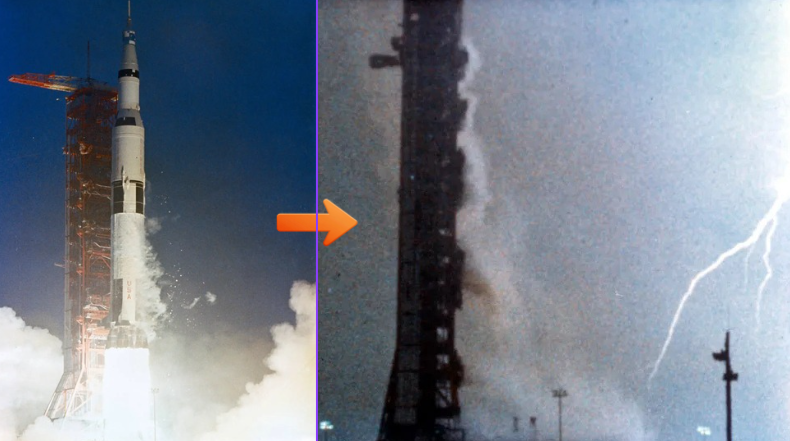
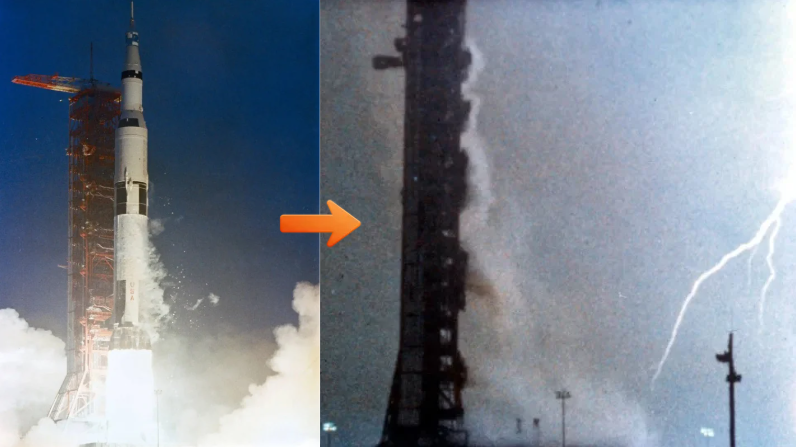
chore(note-story): spec.md 更新と SCEtoAUX サムネ/写真画像を追加
spec.md の制作フロー（画像生成・サムネイル工程）を更新。output/images に
サムネイル（thumnail.png）と写真画像の差し替えを反映。

diff --git a/projects/note-story/spec.md b/projects/note-story/spec.md
@@ -49,18 +49,19 @@
 
 ### 制作フロー
 1. **ネタ選定** — `noteNeta` シートで L列「未使用」のネタから選ぶ（ユーザー指定時も未使用を確認）
-2. **記事フォルダの作成** ー　`YYYY-MM-DD_<短いタイトル>`という名前のフォルダを作成する。作成する記事に関するファイルはこのフォルダの中に格納する。
-3. **関連情報リサーチ** ー research_setup-sources スキルを使い、notebookLM の notebook を作成し、ネタに関連する信頼度の高い情報源をソースとして追加する。スキルが出力する <notebook ID> は保存しておく。以下のステップ 3~5 は、notebook のソースの情報だけをもとに行う。
-4. **参考情報の確認** ー　`reference/articles/` フォルダにある過去の記事例（mhtml）を読み込む
-5. **構成フェーズ** — タイトル案10個とその中の推奨案を1つ・狙い・想定読者・構成案・文字配分を提示し、**ユーザー承認を待つ**（承認前に本文を書かない）。この内容は構成案として保存しておく。
-6. **本文フェーズ** — 承認済み構成を厳守して執筆する。`brand.md`（文体・演出ルール）を遵守
-7. **6000字チェック** — 6000字未満なら不足セクションを加筆し再カウント
-8. **演出セルフチェック** — 導入H2なし／各H2末尾`---`／H3なし／専門語の噛み砕き／各H2に演出装置／`[^N]`形式 を確認
-9. **ファクトチェック** — `/check-fact`（テキスト入力モード、最大5回ループ）。指摘を反映した版を最終本文とする
-10. **画像生成** ー　各H2セクションに１つ図解やイメージ画像などを配置する。そのための図解や画像を生成するプロンプトや、必要に応じてWebから取得すべき画像の説明を各H2セクションんの末尾に追加する。
-12. **ハッシュタグ** — `/hashtag-note {本文}`で、note記事につける hashtag を選定し、本文下書きの末尾に追加する。
-14. **ネタを使用済みに更新** — `noteNeta` シートの該当行 L列を「使用済み」に更新
-15. **完了メール送信** — `scripts/send_gmail.sh` で useakat@gmail.com へ通知
+2. **記事フォルダの作成**: `YYYY-MM-DD_<短いタイトル>`という名前のフォルダを作成する。作成する記事に関するファイルはこのフォルダの中に格納する。
+3. **関連情報リサーチ**: research_setup-sources スキルを使い、notebookLM の notebook を作成し、ネタに関連する信頼度の高い情報源をソースとして追加する。スキルが出力する <notebook ID> は保存しておく。以下のステップ 3~5 は、notebook のソースの情報だけをもとに行う。
+4. **参考情報の確認**: `reference/articles/` フォルダにある過去の記事例（mhtml）を読み込む
+5. **構成フェーズ**: タイトル案10個とその中の推奨案を1つ・狙い・想定読者・構成案・文字配分を提示し、**ユーザー承認を待つ**（承認前に本文を書かない）。この内容は構成案として保存しておく。
+6. **本文フェーズ**: 承認済み構成を厳守して執筆する。`brand.md`（文体・演出ルール）を遵守
+7. **6000字チェック**: 6000字未満なら不足セクションを加筆し再カウント
+8. **演出セルフチェック**: 導入H2なし／各H2末尾`---`／H3なし／専門語の噛み砕き／各H2に演出装置／`[^N]`形式 を確認
+9. **ファクトチェック**: /check-fact`（テキスト入力モード、最大5回ループ）。指摘を反映した版を最終本文とする
+10. **画像生成**: /visual_image-planner スキルを使い、各H2セクションに１つずつ配置する図解やイメージ画像、写真画像の計画を立て、draft/image-brief.md に保存する。
+11. **サムネイル生成**: thumnail 
+12. **ハッシュタグ**: `/hashtag-note {本文}`で、note記事につける hashtag を選定し、本文下書きの末尾に追加する。
+14. **ネタを使用済みに更新**: `noteNeta` シートの該当行 L列を「使用済み」に更新
+15. **完了メール送信**: `scripts/send_gmail.sh` で useakat@gmail.com へ通知
 
 ### タイトル
 - 人目を引き、クリックしたくなる引きの強いもの。
